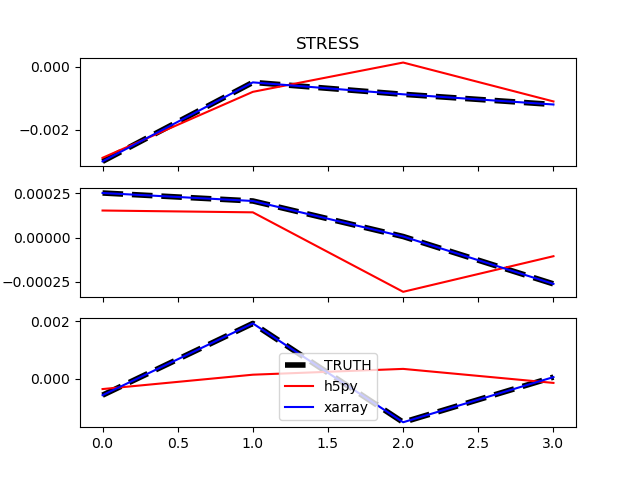
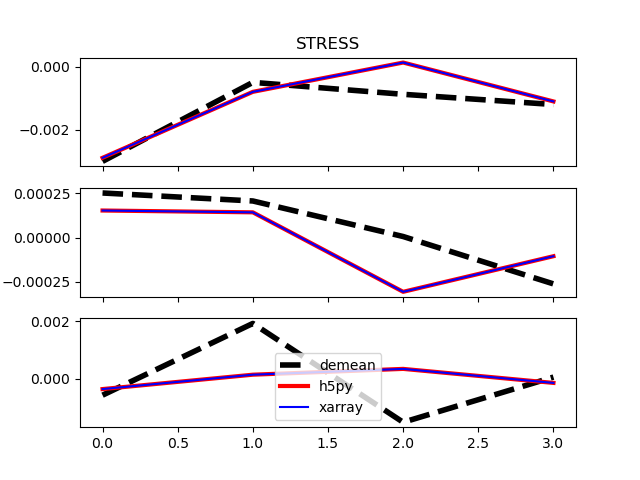
Fix tke_vec and stress discrepancies by switching to detrend in dolfyn1 (3be3f69).

diff --git a/test.py b/test.py
@@ -162,7 +162,7 @@ if False:
     axs[0].set_title("ANGRT")
     fig.savefig('fig/' + fnm + '.ANGRT.png')
     
-if False:
+if True:
     fnm = 'vector_data01'
     # Compare the data that disagrees for this file:
     data0, data1 = compare_file(fnm + '.h5')
@@ -175,7 +175,7 @@ if False:
     datb0 = bnr0(data0)
 
     # Now do the calculations manually...
-    U = data0.vel[:,:80].reshape(3,4,20).copy()
+    u = data0.vel[:,:80].reshape(3,4,20).copy()
     u -= u.mean(-1)[:, :, None]
     tke = (u ** 2).mean(-1)
     stress = np.stack([u[0] * u[1], u[0] * u[2], u[1] * u[2]]).mean(-1)
@@ -186,9 +186,10 @@ if False:
 
     for idx in range(3):
         ax = axs[idx]
-        ax.plot(tke[idx], 'k--', lw=4, label='TRUTH')
-        ax.plot(datb0.tke_vec[idx], color='r', label='h5py')
-        ax.plot(datb1.tke_vec[idx], color='b', label='xarray')
+        ax.plot(tke[idx], 'k--', lw=4, label='demean')
+        #ax.plot(tke[idx], 'k--', lw=4, label='detrend')
+        ax.plot(datb0.tke_vec[idx], color='r', lw=3, label='h5py')
+        ax.plot(datb1.tke_vec[idx], color='b', lw=1, label='xarray')
     ax.set_yscale('log')
     ax.legend()
         
@@ -201,12 +202,17 @@ if False:
     
     for idx in range(3):
         ax = axs[idx]
-        ax.plot(stress[idx], 'k--', lw=4, label='TRUTH')
-        ax.plot(datb0.stress[idx], color='r', label='h5py')
+        ax.plot(stress[idx], 'k--', lw=4, label='demean')
+        ax.plot(datb0.stress[idx], color='r', lw=3, label='h5py')
         ax.plot(datb1.stress[idx], color='b', label='xarray')
     axs[0].set_title("STRESS")
     ax.legend()
     fig.savefig('fig/' + fnm + '.STRESS.png')
+
+    fnm = 'vector_data01_bin'
+    data0, data1 = compare_file(fnm + '.h5')
+    # Now only n_fft_coh is different, so we'll override this...
+
 
 if True:
     fnm = 'Sig1000_IMU_rotate_beam2inst'

diff --git a/run_all.py b/run_all.py
@@ -51,6 +51,14 @@ for ffname in ALL_FILES:
         # Small differences in vel. Probably having to do with filtering of acceleration.
         # See fig/ for details.
 
+    elif fnm.startswith('vector_data01_bin'):
+        print(" OK! (LFK manual check)")
+        # This mostly matches after changing dolfyn1 to use 'detrend'
+        # in calc_tke and calc_stress.
+        # The only remaining difference is that n_fft_coh doesn't
+        # match, but that seems to be a problem in the dolfyn0 data
+        # file (where n_fft_coh=3 ?!), so I'm overriding that here.
+
     elif fnm.startswith('vector_data_imu01_rotate_earth2principal'):
         print(" OK! (LFK manual check)")
         # Small/negligible differences in vel.
